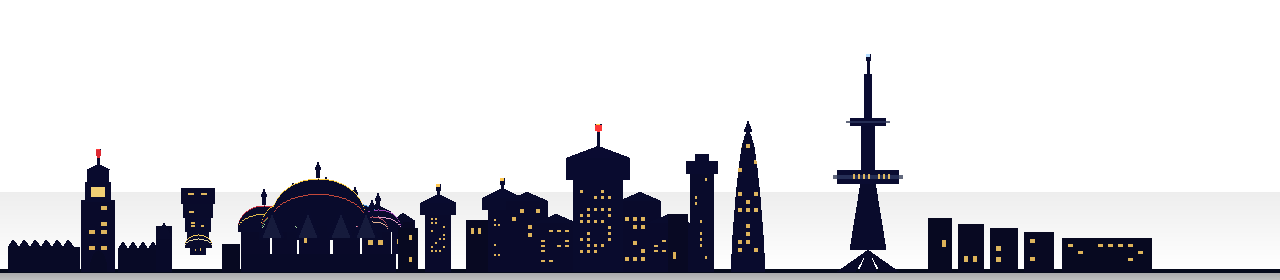
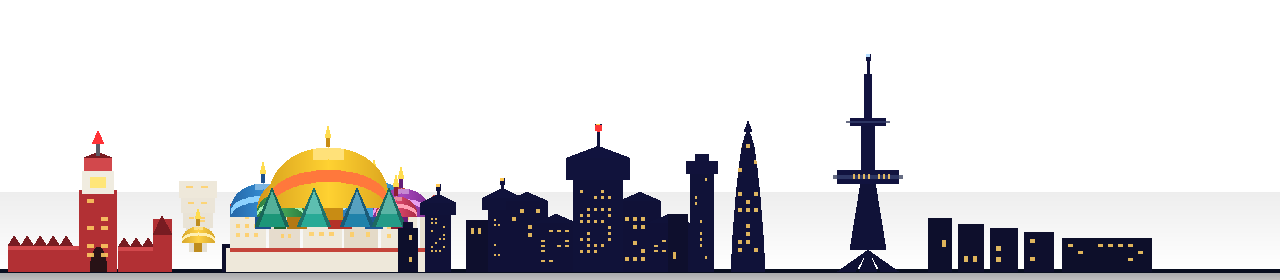
Deploy Stack Rush mobile PWA

Changed region(s): [[0.0, 0.4857, 0.3438, 0.9714]]

diff --git a/index.html b/index.html
@@ -619,7 +619,7 @@
       <div class="section-divider"></div>
       <p class="theme-label">City skyline <span id="cityUnlockHint"></span></p>
       <div class="theme-grid" id="cityGrid"></div>
-      <p class="theme-label" id="buildVer" style="margin-top:10px;opacity:.35;font-size:.62rem;text-align:center;">Build 77ffd13c</p>
+      <p class="theme-label" id="buildVer" style="margin-top:10px;opacity:.35;font-size:.62rem;text-align:center;">Build 14e4a26a</p>
       <button class="secondary" id="optionsBackBtn" style="width:100%;margin-top:10px;">Back</button>
     </div>
   </div>
@@ -1561,8 +1561,8 @@ const CITIES = {
   tokyo:   { name: 'Tokyo',     unlockScore: 2000, skyline: 'cities/tokyo.png',   accent: '#ff6b9d' },
   london:  { name: 'London',    unlockScore: 2800, skyline: 'cities/london.png',  accent: '#80d8ff' },
   dubai:   { name: 'Dubai',     unlockScore: 3600, skyline: 'cities/dubai.png',   accent: '#ffd54f' },
-  moscow:  { name: 'Moscow',    unlockScore: 4400, skyline: 'cities/moscow.png',  accent: '#ef5350' }, /* v2 skyline */
-  rome:    { name: 'Rome',      unlockScore: 5200, skyline: 'cities/rome.png',    accent: '#ffab91' }, /* v2 skyline */
+  moscow:  { name: 'Moscow',    unlockScore: 4400, skyline: 'cities/moscow.png',  accent: '#ef5350', vivid: true },
+  rome:    { name: 'Rome',      unlockScore: 5200, skyline: 'cities/rome.png',    accent: '#ffab91' },
 };
 
 function getCity(id) { return CITIES[id] || CITIES.neon; }
@@ -2888,7 +2888,8 @@ class GameEngine {
     const img = CityBank.get(this.cityId);
 
     if (img && img.complete && img.naturalWidth > 0) {
-      const targetH = Math.min(200, this.h * 0.28);
+      const vivid = !!getCity(this.cityId).vivid;
+      const targetH = Math.min(vivid ? 230 : 200, this.h * (vivid ? 0.32 : 0.28));
       const scale = targetH / img.height;
       const tileW = img.width * scale;
       const tileH = img.height * scale;
@@ -2897,7 +2898,8 @@ class GameEngine {
       const topY = groundY - tileH * groundNorm;
 
       ctx.save();
-      ctx.globalAlpha = cityAlpha;
+      ctx.globalAlpha = vivid ? Math.min(1, cityAlpha * 1.12) : cityAlpha;
+      if (vivid) ctx.filter = 'saturate(1.45) brightness(1.18) contrast(1.08)';
       for (let x = -parallax - tileW; x < this.w + tileW; x += tileW) {
         ctx.drawImage(img, x, topY, tileW, tileH);
       }
@@ -4020,7 +4022,7 @@ if ('serviceWorker' in navigator) {
     location.reload();
   });
   window.addEventListener('load', () => {
-    navigator.serviceWorker.register('./sw.js?v=77ffd13c').then((reg) => {
+    navigator.serviceWorker.register('./sw.js?v=14e4a26a').then((reg) => {
       reg.update();
       if (reg.waiting) reg.waiting.postMessage({ type: 'SKIP_WAITING' });
       reg.addEventListener('updatefound', () => {

diff --git a/sw.js b/sw.js
@@ -1,5 +1,5 @@
 /* Stack Rush service worker — generated by build_mobile.py */
-const CACHE = 'stackrush-77ffd13c';
+const CACHE = 'stackrush-14e4a26a';
 const ASSETS = [
   "./manifest.webmanifest",
   "./icon.svg",
